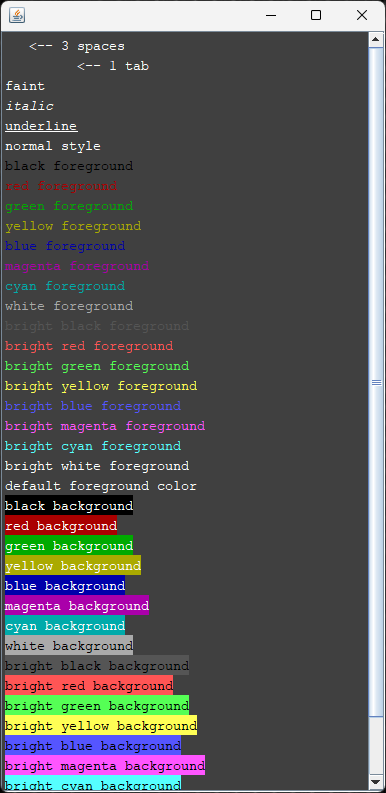
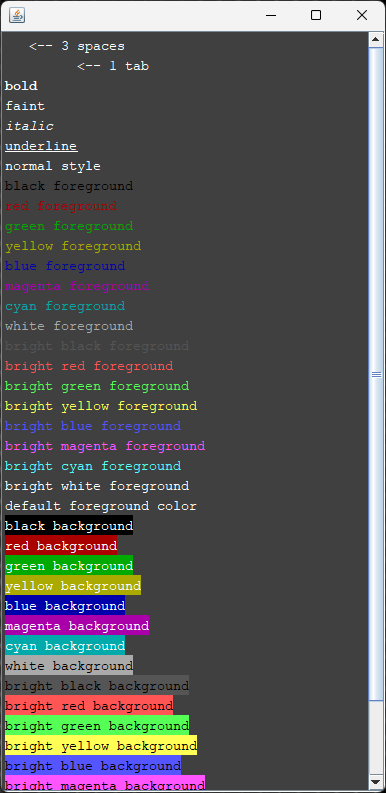
Bug fixed AnsiEditorKit.java, which was missing the first escape code when parsing the ANSI text in insertAnsi().

diff --git a/java/src/main/java/java_swing_ansi_support/AnsiEditorKit.java b/java/src/main/java/java_swing_ansi_support/AnsiEditorKit.java
@@ -130,16 +130,15 @@ public class AnsiEditorKit extends StyledEditorKit {
             return;
         }
 
-        var codeStart = matcher.start();
-
-        var text = ansiText.substring(0, codeStart);
+        var text = ansiText.substring(0, matcher.start());
         if (!text.isBlank()) {
             doc.insertString(0, text, attributes); // no ansi codes found
         }
 
-        while (matcher.find()) {
-            codeStart = matcher.start();
-            var codeEnd = matcher.end();
+        int codeEnd;
+        do {
+            int codeStart = matcher.start();
+            codeEnd = matcher.end();
             var ansiCode = ansiText.substring(codeStart, codeEnd);
 
             attributes = AnsiAttributesUtil.updateAnsi(attributes, AnsiEscCode.fromEscCode(ansiCode), ansiColors);
@@ -154,6 +153,7 @@ public class AnsiEditorKit extends StyledEditorKit {
                 doc.insertString(doc.getLength(), text, attributes);
             }
         }
+        while (matcher.find(codeEnd));
     }
 
     private static String readText(Reader reader) throws IOException {
